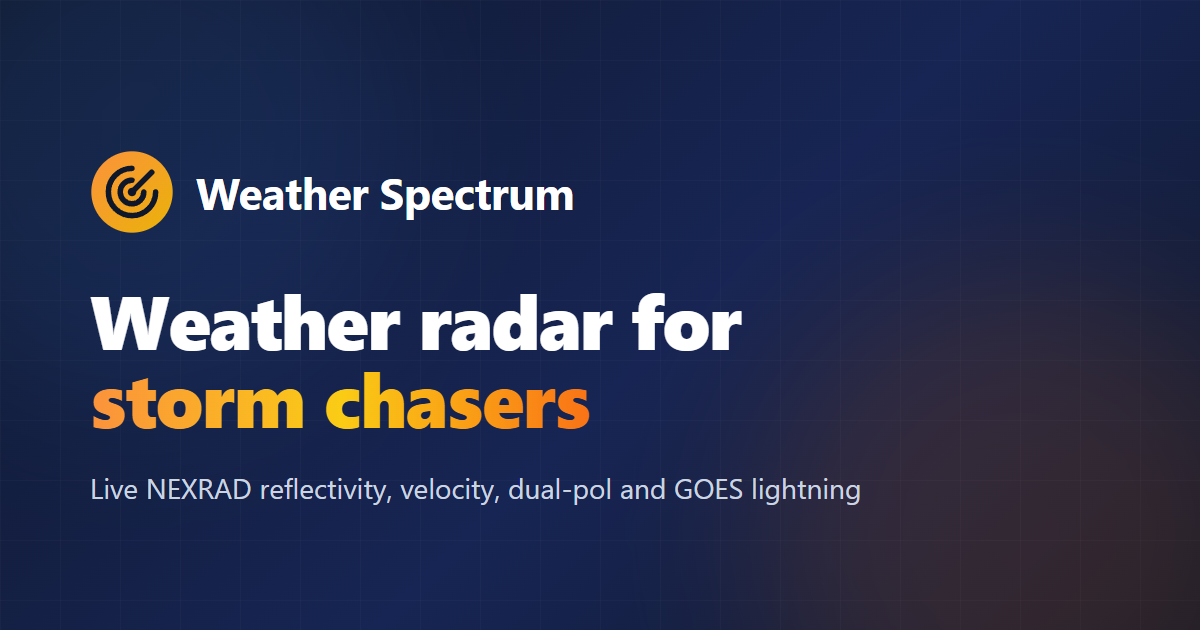
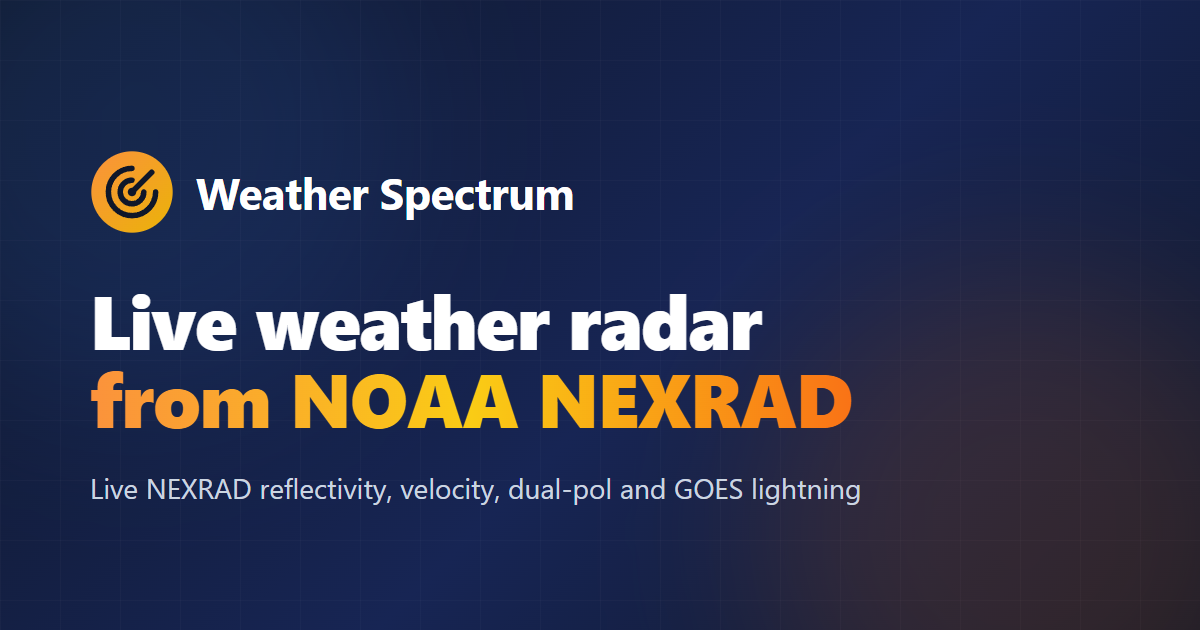
Drop storm-chaser wording from home, About, titles and sharing image

Changed region(s): [[0.0617, 0.4524, 0.7092, 0.6937]]

diff --git a/src/pages/home.jsx b/src/pages/home.jsx
@@ -57,11 +57,11 @@ export default function Home() {
         <div className="absolute -bottom-32 right-0 w-96 h-96 rounded-full bg-orange-500 opacity-10 blur-3xl" aria-hidden />
 
         <div className="relative max-w-5xl mx-auto px-5 sm:px-6 pt-24 pb-28 sm:pt-32 sm:pb-36 text-center">
-          <p className="text-xs font-semibold uppercase tracking-[0.2em] text-orange-300">Live NEXRAD radar</p>
+          <p className="text-xs font-semibold uppercase tracking-[0.2em] text-orange-300">Weather Spectrum</p>
           <h1 className="mt-5 text-4xl sm:text-6xl md:text-7xl font-bold leading-[1.05] tracking-tight text-white">
-            Weather radar for
+            Live weather radar
             <span className="block text-transparent bg-clip-text bg-gradient-to-r from-orange-400 via-yellow-400 to-orange-500">
-              storm chasers
+              from NOAA NEXRAD
             </span>
           </h1>
           <p className="mt-6 text-base sm:text-lg leading-relaxed text-gray-300 max-w-2xl mx-auto">

diff --git a/src/pages/About.jsx b/src/pages/About.jsx
@@ -17,7 +17,7 @@ export default function About() {
         <p className="text-xs font-semibold uppercase tracking-[0.2em] text-orange-300">About</p>
         <h1 className="mt-4 text-3xl sm:text-4xl font-bold tracking-tight text-white">Weather Spectrum</h1>
         <p className="mt-5 text-lg leading-relaxed text-gray-300">
-          Weather Spectrum is a radar viewer for storm chasers, spotters and anyone who follows severe weather closely.
+          Weather Spectrum is a radar viewer for anyone who follows severe weather closely.
           It brings NEXRAD radar products and satellite lightning together on one fast map, using real observations
           published by NOAA and its partners.
         </p>

diff --git a/index.html b/index.html
@@ -4,7 +4,7 @@
     <meta charset="UTF-8" />
     <meta name="viewport" content="width=device-width, initial-scale=1.0" />
     <title>Weather Spectrum | Live NEXRAD Radar</title>
-    <meta name="description" content="Live NEXRAD weather radar for storm chasers: reflectivity, velocity, dual-polarization products and lightning from NOAA data." />
+    <meta name="description" content="Live NEXRAD weather radar: reflectivity, velocity, dual-polarization products and lightning from NOAA data." />
     <meta name="theme-color" content="#0f172a" />
     <link rel="icon" href="/favicon.svg" type="image/svg+xml" />
     <link rel="icon" href="/favicon-32.png" type="image/png" sizes="32x32" />

diff --git a/src/seo/meta.js b/src/seo/meta.js
@@ -22,7 +22,7 @@ export const stationPath = (r) => `/stations/${r.icao.toLowerCase()}`;
 
 const STATIC = {
   '/': {
-    title: 'Weather Spectrum | Live NEXRAD Radar for Storm Chasers',
+    title: 'Weather Spectrum | Live NEXRAD Weather Radar',
     description:
       'Live NEXRAD weather radar: super-resolution reflectivity and velocity, dual-polarization products, echo tops and GOES satellite lightning from NOAA data.',
     jsonLd: [
